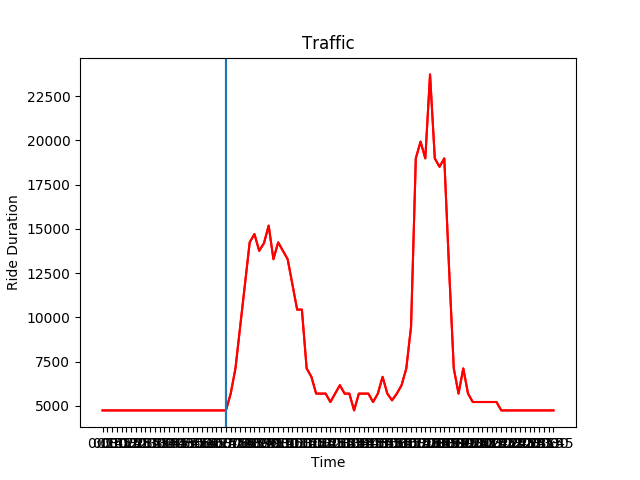
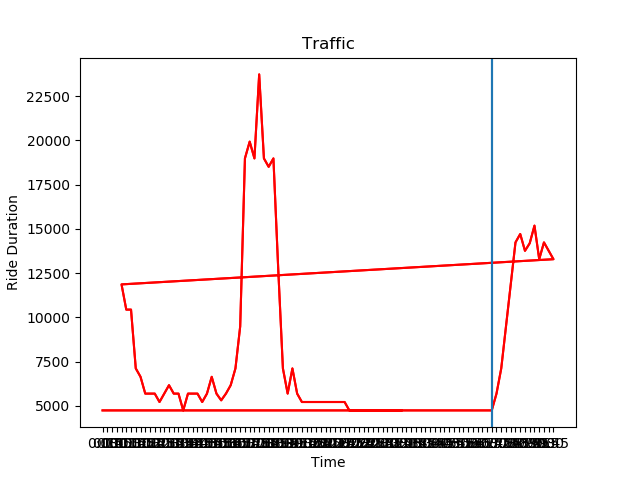
Time corrected

diff --git a/server.py b/server.py
@@ -89,9 +89,9 @@ def get_time():
         print('warning invalid query')
         return(error505('invalid query'))
     time = time_normal(r)
+    arrival_time_sec = departure_time
     departure_time = departure_time - time
-    arrival_time_sec = 1614236000
-    while(arrival_time_sec < early_arrival_seconds and arrival_time_sec > late_arrival_seconds):
+    while(arrival_time_sec > early_arrival_seconds and arrival_time_sec < late_arrival_seconds):
         r = requests.get('https://maps.googleapis.com/maps/api/distancematrix/json?units=imperial&origins=' + origin + '&destinations=' + destination + '&departure_time='+ str(departure_time) + '&key=' + api_key)
         if(r.json()['status'] != 'OK'):
             print('warning invalid query')
@@ -99,18 +99,19 @@ def get_time():
         time = time_with_trafic(r)
         #departure_time = departure_time - 300
         arrival_time_sec = departure_time + time
-        departure_time = departure_time + 300
+        departure_time = departure_time + 3000
 
-
+    ArrivalTime = ''
+    DepartureTime = ''
     strTime = str(int(time/3600)) + " Hours " + str(int((time/60))%60) + " Minutes " + str(time%60) + " Seconds "
-    if(departure_time%60 < 10):
-        DepartureTime = str(int((departure_time%86400)/3600))+ '0' +str((departure_time%60))
+    if(int(((departure_time%86400)%3600)/60) < 10):
+        DepartureTime = str(int((departure_time%86400)/3600))+ ':0' +str(int(((departure_time%86400)%3600)/60))
     else:
-        DepartureTime = str(int((departure_time%86400)/3600))+str((departure_time%60))
-    if(arrival_time_sec%60 < 10):
-        ArrirvalTime = str(int((arrival_time_sec%86400)/3600))+ '0' +str((arrival_time_sec%60))
+        DepartureTime = str(int((departure_time%86400)/3600))+ ':' +str(int(((departure_time%86400)%3600)/60))
+    if(int(((arrival_time_sec%86400)%3600)/60) < 10):
+        ArrivalTime = str(int((arrival_time_sec%86400)/3600))+ ':0' +str(int(((arrival_time_sec%86400)%3600)/60))
     else:
-        ArrivalTime = str(int((arrival_time_sec%86400)/3600))+str((arrival_time_sec%60))
+        ArrivalTime = str(int((arrival_time_sec%86400)/3600))+ ':' +str(int(((arrival_time_sec%86400)%3600)/60))
     points = (int(late_arrival_time)-int(early_arrival_time))
     return template('Solution.tpl', timeToDest=strTime, points = str(points), arrivalTime = ArrivalTime, departureTime = DepartureTime)
 
